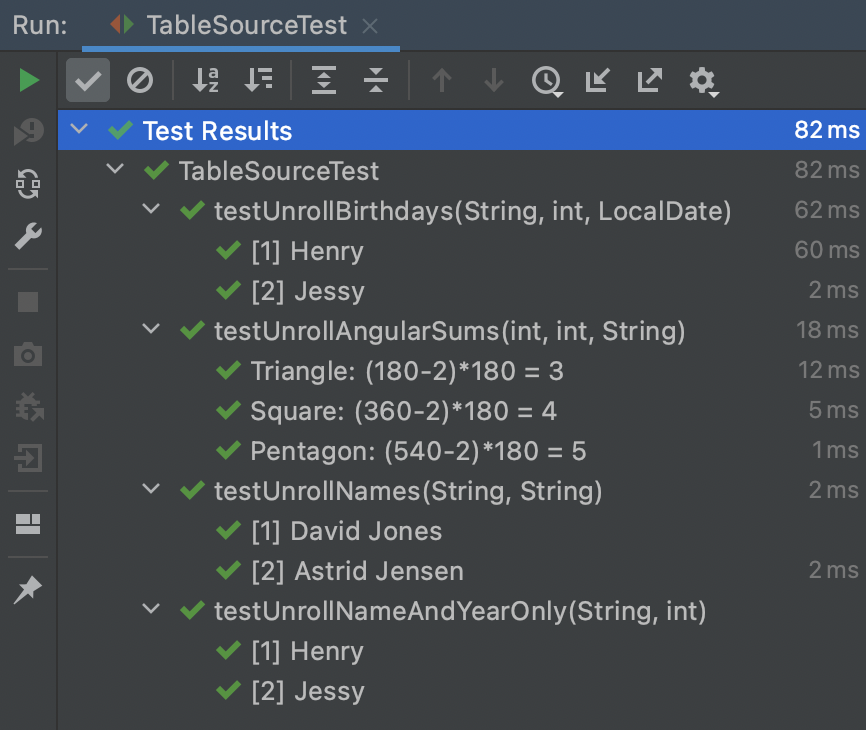
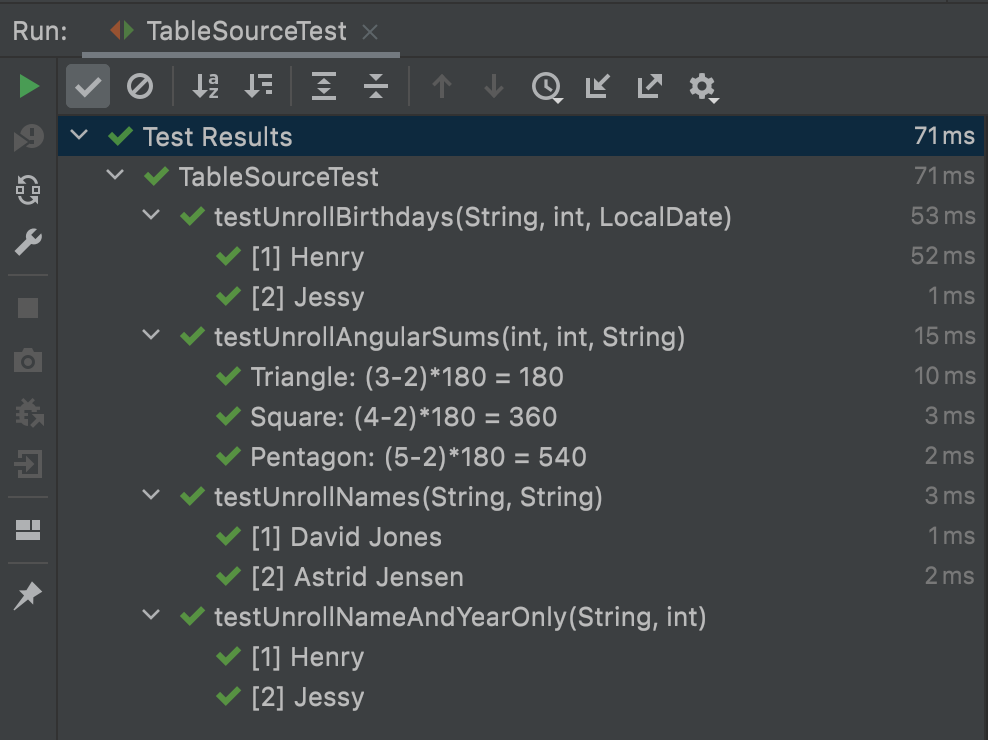
Fix angular test name in spockito5 tests

diff --git a/spockito-junit5/src/test/java/org/tools4j/spockito/jupiter/TableSourceTest.java b/spockito-junit5/src/test/java/org/tools4j/spockito/jupiter/TableSourceTest.java
@@ -1,7 +1,7 @@
 /*
  * The MIT License (MIT)
  *
- * Copyright (c) 2017-2021 tools4j.org (Marco Terzer)
+ * Copyright (c) 2017-2022 tools4j.org (Marco Terzer)
  *
  * Permission is hereby granted, free of charge, to any person obtaining a copy
  * of this software and associated documentation files (the "Software"), to deal
@@ -100,7 +100,7 @@ public class TableSourceTest {
             "| Pentagon |     5    |    540    |",
             "|----------|----------|-----------|",
     })
-    @ParameterizedTest(name = "{2}: ({1}-2)*180 = {0}")
+    @ParameterizedTest(name = "{2}: ({0}-2)*180 = {1}")
     public void testUnrollAngularSums(@Column("Vertices") int n,
                                       @Column("Angle sum") int degrees,
                                       @Column("Object") String name) {

diff --git a/spockito-junit5/src/test/java/org/tools4j/spockito/jupiter/AdvancedTableSourceTest.java b/spockito-junit5/src/test/java/org/tools4j/spockito/jupiter/AdvancedTableSourceTest.java
@@ -1,7 +1,7 @@
 /*
  * The MIT License (MIT)
  *
- * Copyright (c) 2017-2021 tools4j.org (Marco Terzer)
+ * Copyright (c) 2017-2022 tools4j.org (Marco Terzer)
  *
  * Permission is hereby granted, free of charge, to any person obtaining a copy
  * of this software and associated documentation files (the "Software"), to deal

diff --git a/spockito-junit5/src/test/java/org/tools4j/spockito/jupiter/Operation.java b/spockito-junit5/src/test/java/org/tools4j/spockito/jupiter/Operation.java
@@ -1,7 +1,7 @@
 /*
  * The MIT License (MIT)
  *
- * Copyright (c) 2017-2021 tools4j.org (Marco Terzer)
+ * Copyright (c) 2017-2022 tools4j.org (Marco Terzer)
  *
  * Permission is hereby granted, free of charge, to any person obtaining a copy
  * of this software and associated documentation files (the "Software"), to deal

diff --git a/spockito-junit5/src/test/java/org/tools4j/spockito/jupiter/SpockitoExtensionTest.java b/spockito-junit5/src/test/java/org/tools4j/spockito/jupiter/SpockitoExtensionTest.java
@@ -1,7 +1,7 @@
 /*
  * The MIT License (MIT)
  *
- * Copyright (c) 2017-2021 tools4j.org (Marco Terzer)
+ * Copyright (c) 2017-2022 tools4j.org (Marco Terzer)
  *
  * Permission is hereby granted, free of charge, to any person obtaining a copy
  * of this software and associated documentation files (the "Software"), to deal

diff --git a/README.md b/README.md
@@ -66,7 +66,7 @@ public class TableSourceTest {
             "| Pentagon |     5    |    540    |",
             "|----------|----------|-----------|",
     })
-    @ParameterizedTest(name = "{2}: ({1}-2)*180 = {0}")
+    @ParameterizedTest(name = "{2}: ({0}-2)*180 = {1}")
     public void testUnrollAngularSums(@Column("Vertices") int n,
                                       @Column("Angle sum") int degrees,
                                       @Column("Object") String name) {

diff --git a/LICENSE.md b/LICENSE.md
@@ -1,6 +1,6 @@
 The MIT License (MIT)
 
-Copyright (c) 2017-2021 tools4j.org (Marco Terzer)
+Copyright (c) 2017-2022 tools4j.org (Marco Terzer)
 
 Permission is hereby granted, free of charge, to any person obtaining a copy
 of this software and associated documentation files (the "Software"), to deal
